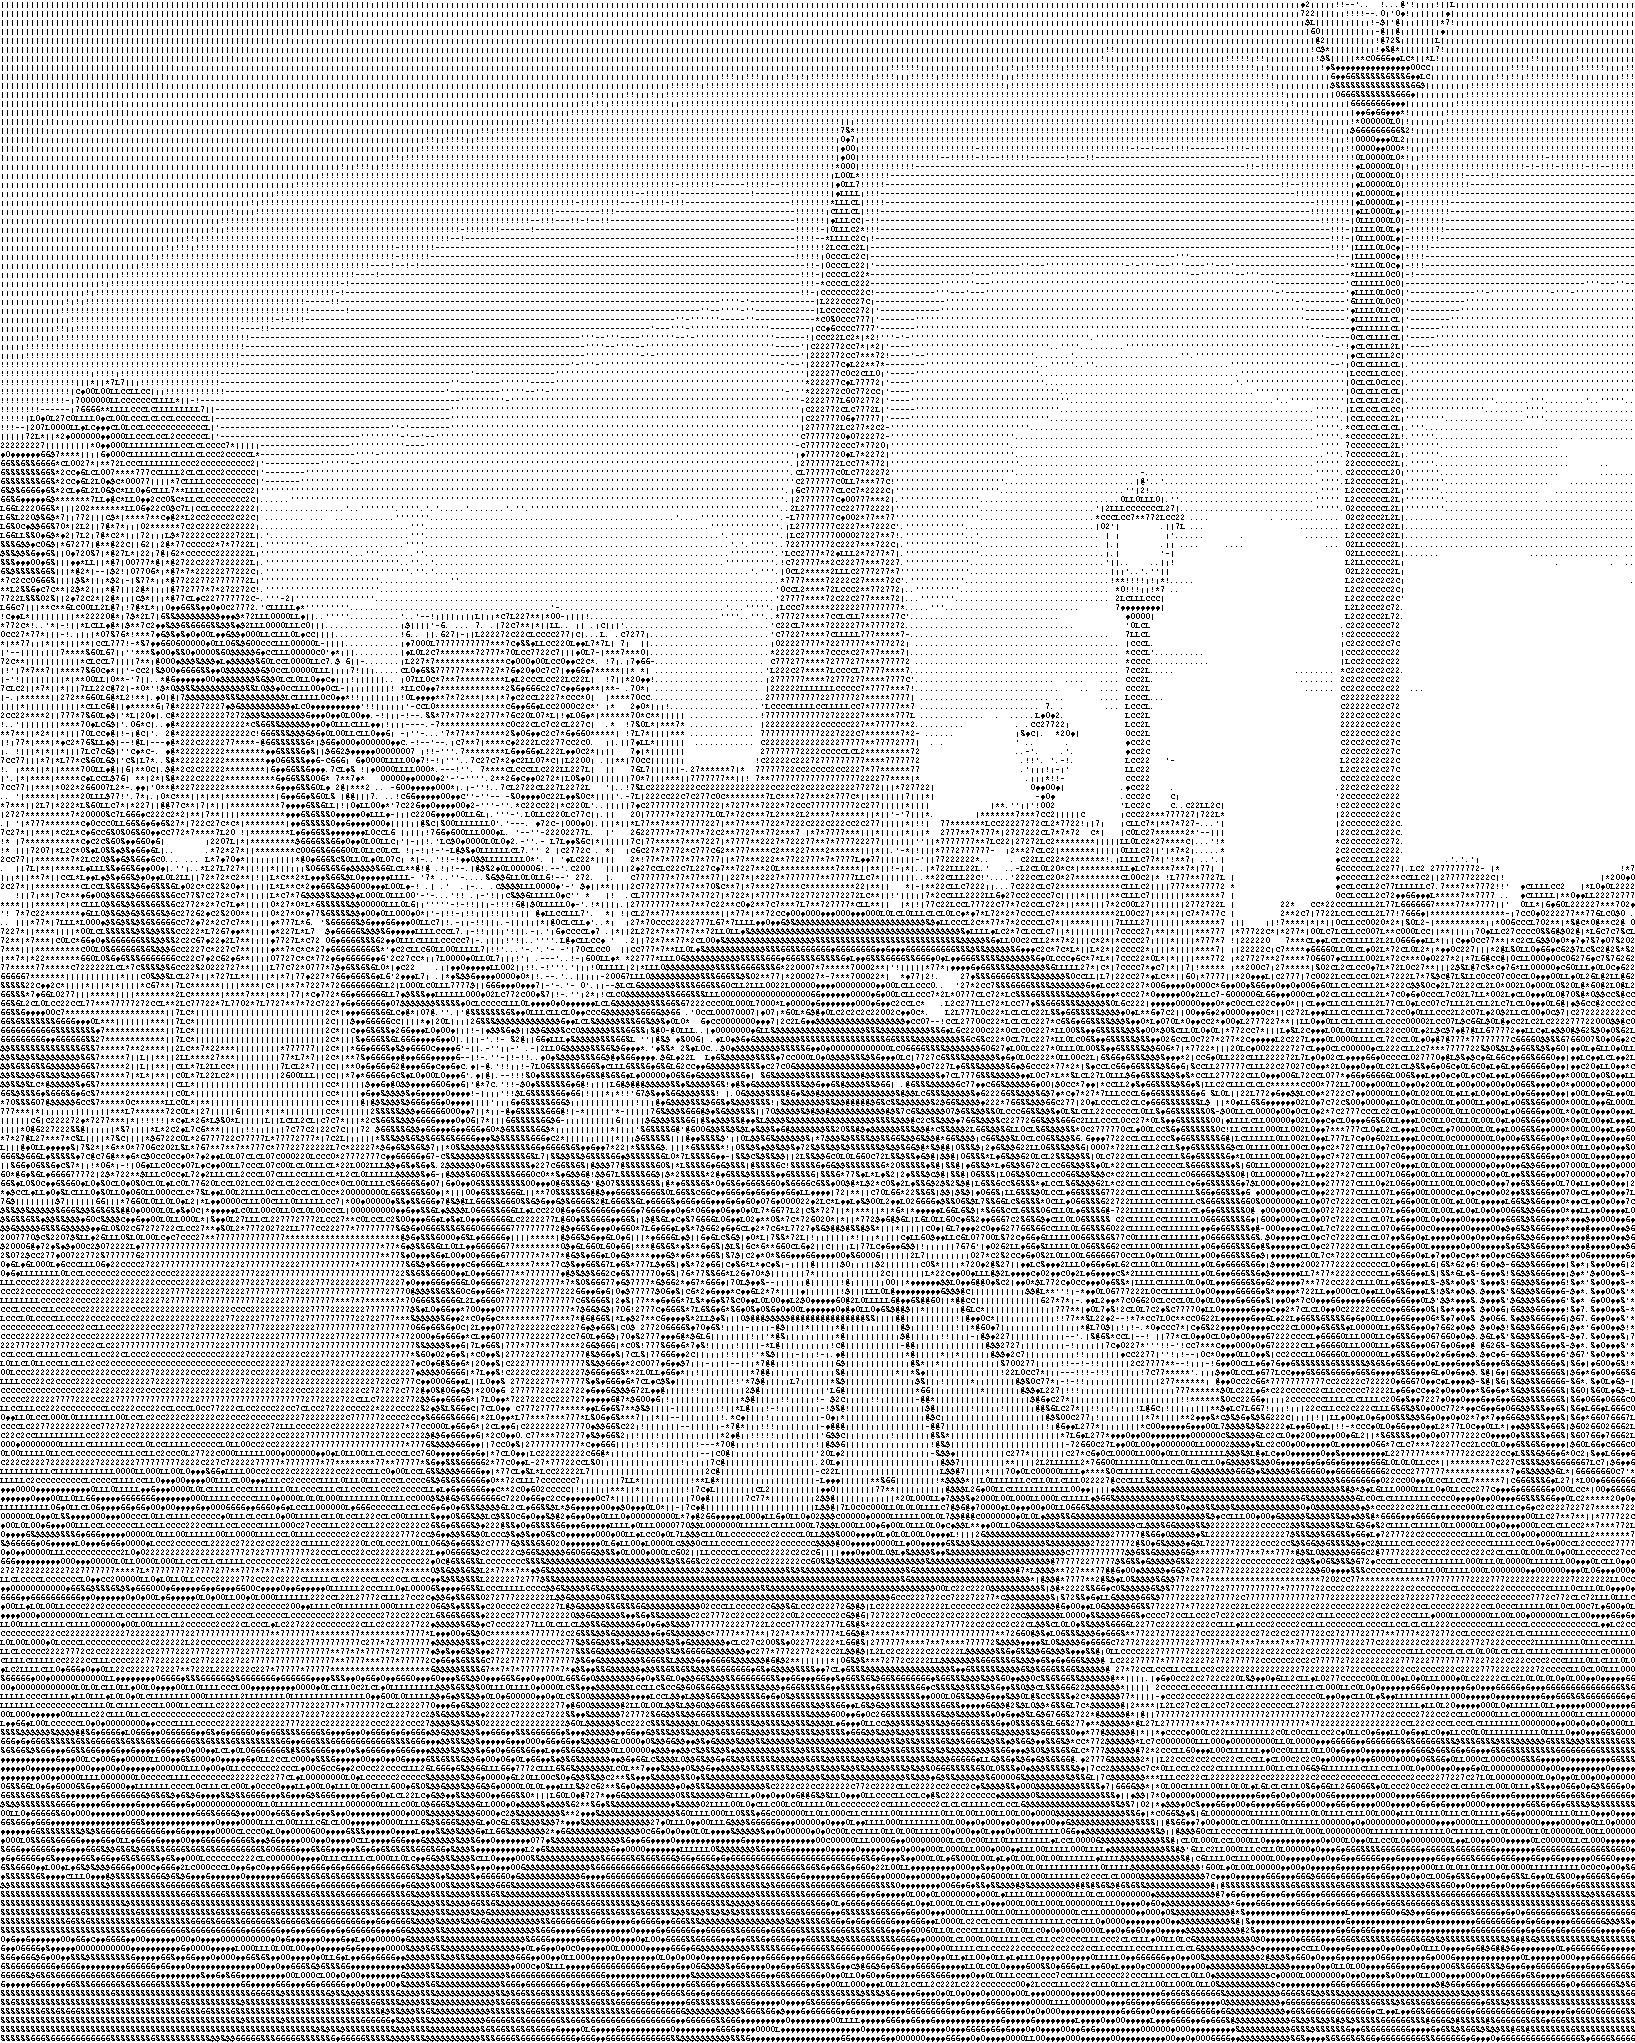
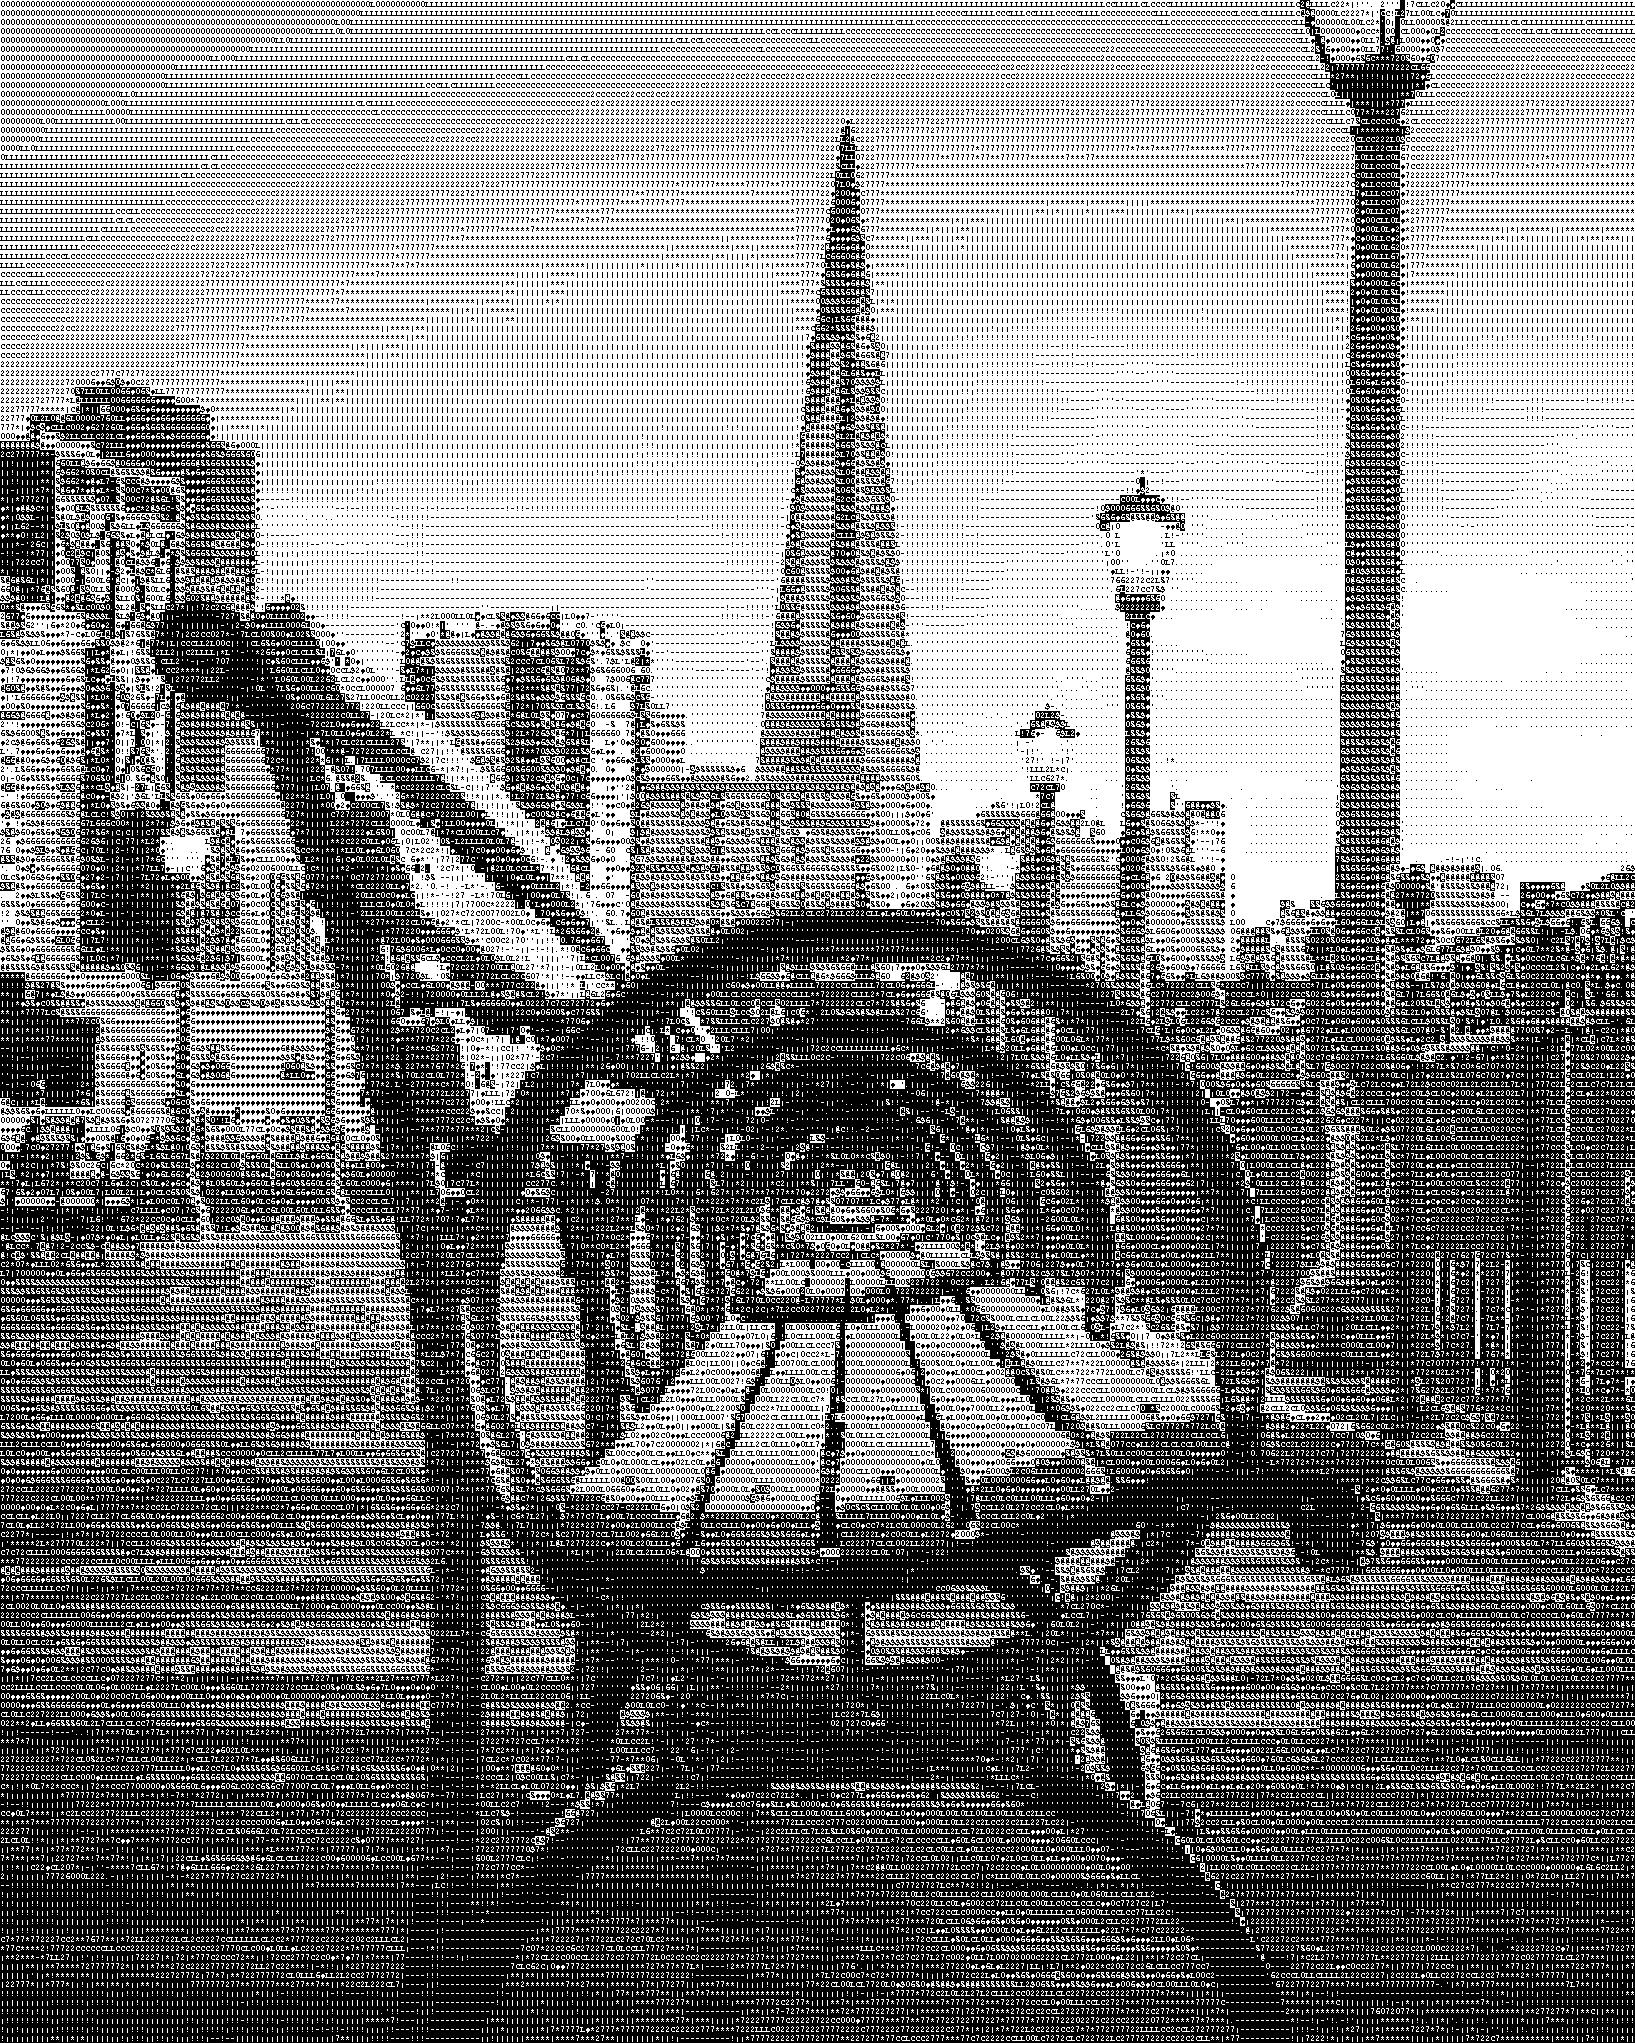
added inverse tiles

diff --git a/textixel.py b/textixel.py
@@ -6,12 +6,13 @@ from PIL import Image, ImageDraw, ImageFont, ImageOps, ImageStat, ImageFilter
 
 class Tile():
     
-    def __init__(self, char, width, height, font, use_alternates):
+    def __init__(self, char, width, height, font, use_alternates, inverse):
         self.char = char
         self.width = width
         self.height = height
         self.font = font
         self.use_alternates = use_alternates
+        self.inverse = inverse
         self.img = None
         self.black_count = 0
         self.min_color = None
@@ -19,9 +20,15 @@ class Tile():
         self.alternates = [self]
         
     def init(self):
-        self.img = Image.new(mode="1", size=(self.width, self.height), color=1)
+        if not self.inverse:
+            self.img = Image.new(mode="1", size=(self.width, self.height), color=1)
+        else:
+            self.img = Image.new(mode="1", size=(self.width, self.height), color=0)
         d = ImageDraw.Draw(self.img)
-        d.text((0,0), self.char, font=self.font, fill=0)
+        if not self.inverse:
+            d.text((0,0), self.char, font=self.font, fill=0)
+        else:
+            d.text((0,0), self.char, font=self.font, fill=1)
         for x in range(self.width):
             for y in range(self.height):
                 pixel = self.img.getpixel((x, y))
@@ -78,7 +85,10 @@ class TileSet():
         self.tiles = []
         tmp_tiles = []
         for ch in self.CHARS:
-            t = Tile(ch, width, height, font, self.use_alternates)
+            t = Tile(ch, width, height, font, self.use_alternates, inverse=False)
+            t.init()
+            tmp_tiles.append(t)
+            t = Tile(ch, width, height, font, self.use_alternates, inverse=True)
             t.init()
             tmp_tiles.append(t)
         # cull tiles
